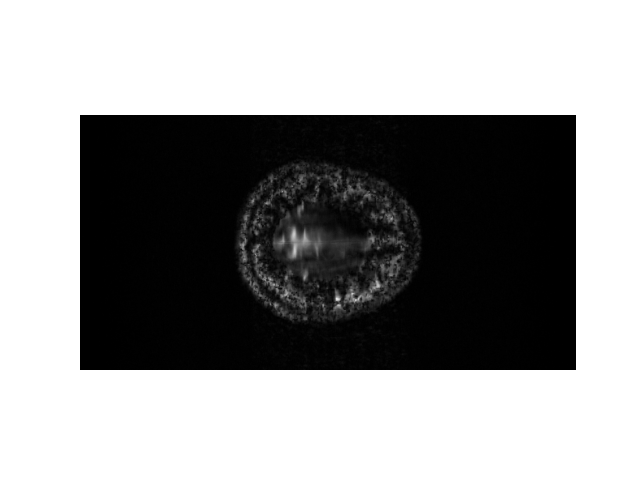
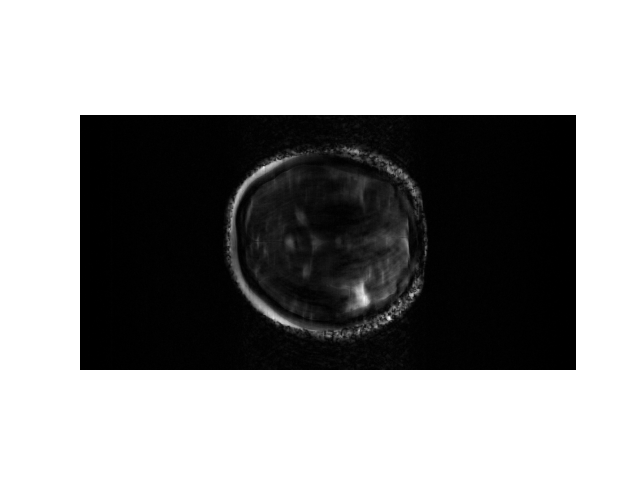
test sense val

Changed region(s): [[0.3438, 0.2812, 0.6875, 0.7188]]

diff --git a/my_CDLNet/mri_utils.py b/my_CDLNet/mri_utils.py
@@ -46,3 +46,81 @@ def detect_acc_mask(y):
     mask = torch.diag((nonzeros > 0)*1)
     # Returns H x W mask 
     return mask
+
+
+def make_acc_mask(
+    shape,
+    accel,
+    acs_lines=24,
+    seed=None,
+    variable_density=False,
+    dim=1
+):
+    """
+    Create a diagonal undersampling matrix D for MRI.
+    D is diag(mask.flatten()) so that D @ image_vec applies undersampling.
+    Parameters
+    ----------
+    shape : tuple (Ny, Nx)
+        k-space shape.
+    accel : float
+        Acceleration factor.
+    acs_lines : int
+        Number of central fully-sampled lines.
+    seed : int or None
+        RNG seed.
+    variable_density : bool
+        Use variable-density random sampling.
+    dim : int
+        Dimension to undersample (default = 1).
+    Returns
+    -------
+    D : torch.sparse_coo_tensor
+        A diagonal sparse matrix such that D @ vec(image) applies the mask.
+    mask : torch.Tensor
+        The 2D binary mask (Ny, Nx).
+    """
+    Ny, Nx = shape
+    N = shape[dim]
+
+    # Build empty mask
+    mask = torch.zeros((Ny, Nx), dtype=torch.float32)
+    
+    # Determine how many samples to keep
+    n_total = N
+    n_acs = acs_lines
+    n_outer = n_total - n_acs
+    n_keep_outer = math.floor(n_outer / accel)
+
+    # Build PDF
+    if variable_density:
+        x = torch.linspace(-1, 1, N)
+        pdf = torch.exp(-4 * x**2)
+        pdf = pdf / pdf.sum()
+    else:
+        pdf = torch.ones(N) / N
+
+    # Remove ACS region from PDF
+    center = N // 2
+    half_acs = n_acs // 2
+    pdf[center - half_acs : center + half_acs] = 0
+    pdf = pdf / pdf.sum()
+
+    if seed is not None:
+        torch.manual_seed(seed)
+
+    # Draw outer samples
+    idx_outer = torch.multinomial(pdf, n_keep_outer, replacement=False)
+    idx_acs = torch.arange(center - half_acs, center + half_acs)
+    idx_keep = torch.cat([idx_outer, idx_acs]).unique()
+    
+    # Fill mask
+    mask.index_fill_(dim, idx_keep, 1.0)
+
+    # ---- Create dense diagonal matrix ----
+    flat = mask.flatten()     # length Npix
+    
+    # From flat, generate a matrix that we can use as a matrix multiply
+    D = torch.diag(flat[0:N])      # <-- full dense matrix
+    
+    return D, mask

diff --git a/my_CDLNet/sense.py b/my_CDLNet/sense.py
@@ -5,7 +5,7 @@ import os
 import h5py
 
 from utils import saveimg
-from mri_utils import mri_encoding, mri_decoding, detect_acc_mask
+from mri_utils import mri_encoding, mri_decoding, detect_acc_mask, make_acc_mask
 from solvers import conj_grad
 from functools import partial
 
@@ -49,8 +49,11 @@ def main(args):
     kspace = torch.from_numpy(kspace)  
 
     # Detect acceleration maps
-    mask = detect_acc_mask(kspace)
+    #mask = detect_acc_mask(kspace)
     
+    # Make an acceleration map
+    mask, _ = make_acc_mask(shape = (smaps.shape[2], smaps.shape[2]), accel = 4, acs_lines = 24)
+    breakpoint()
     # Switch axes and send to GPU
     smaps = smaps.permute(0, 2, 1).to(device)
     # Normalize smaps for SENSE
